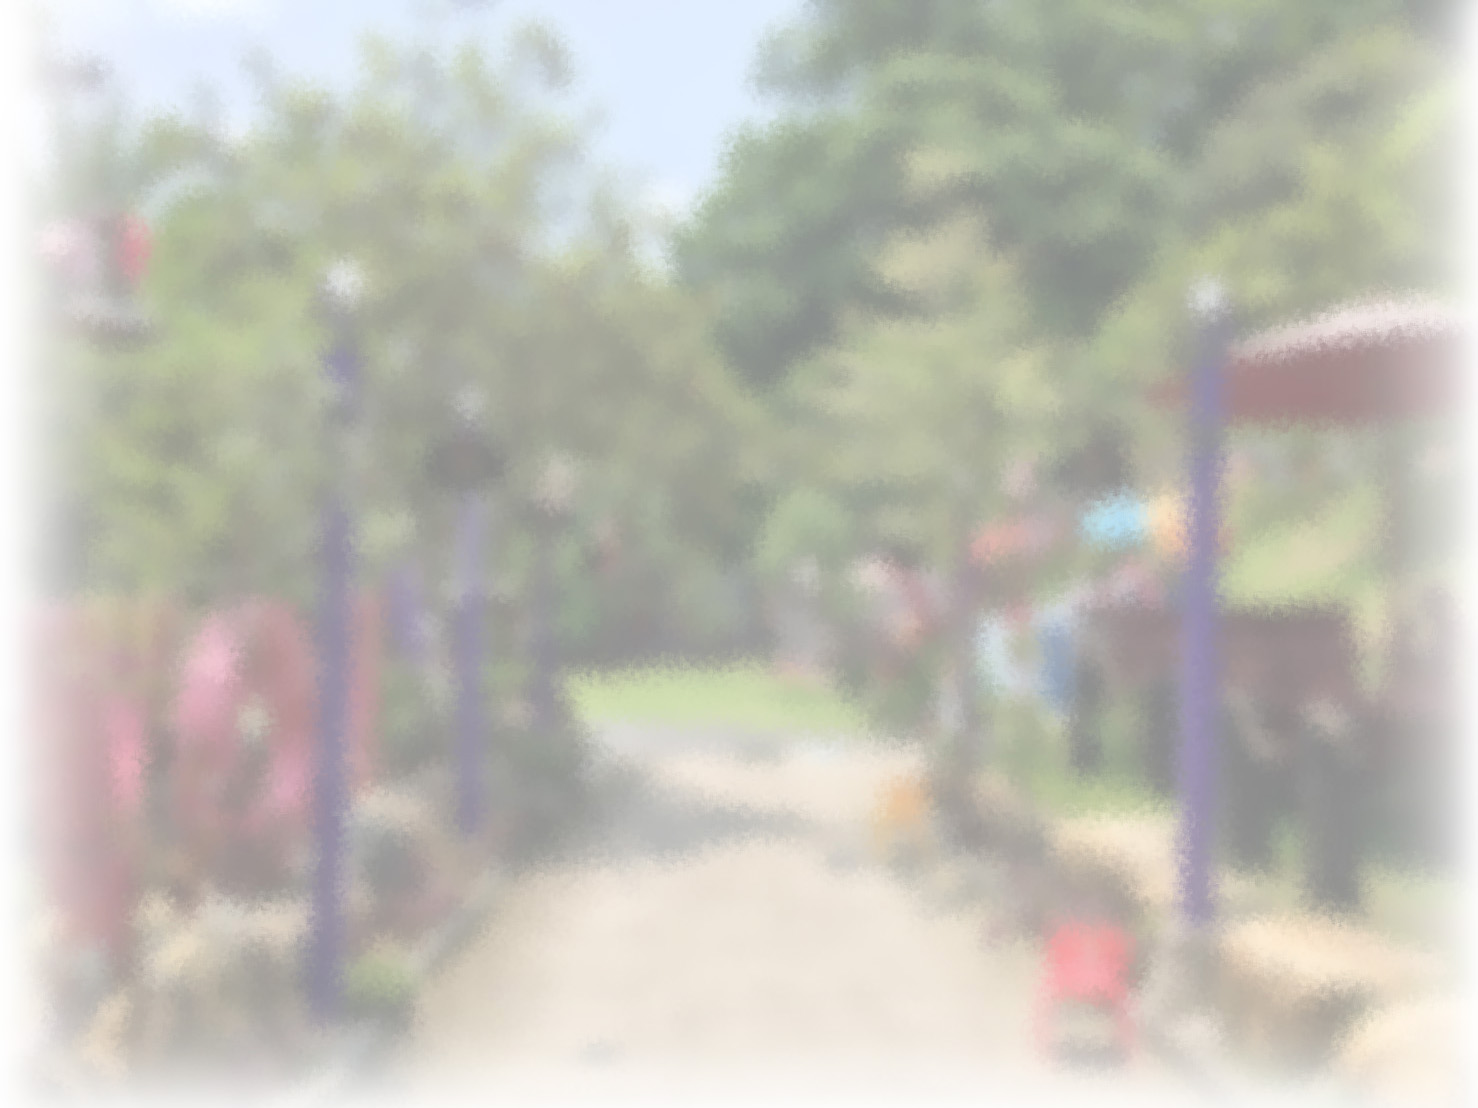
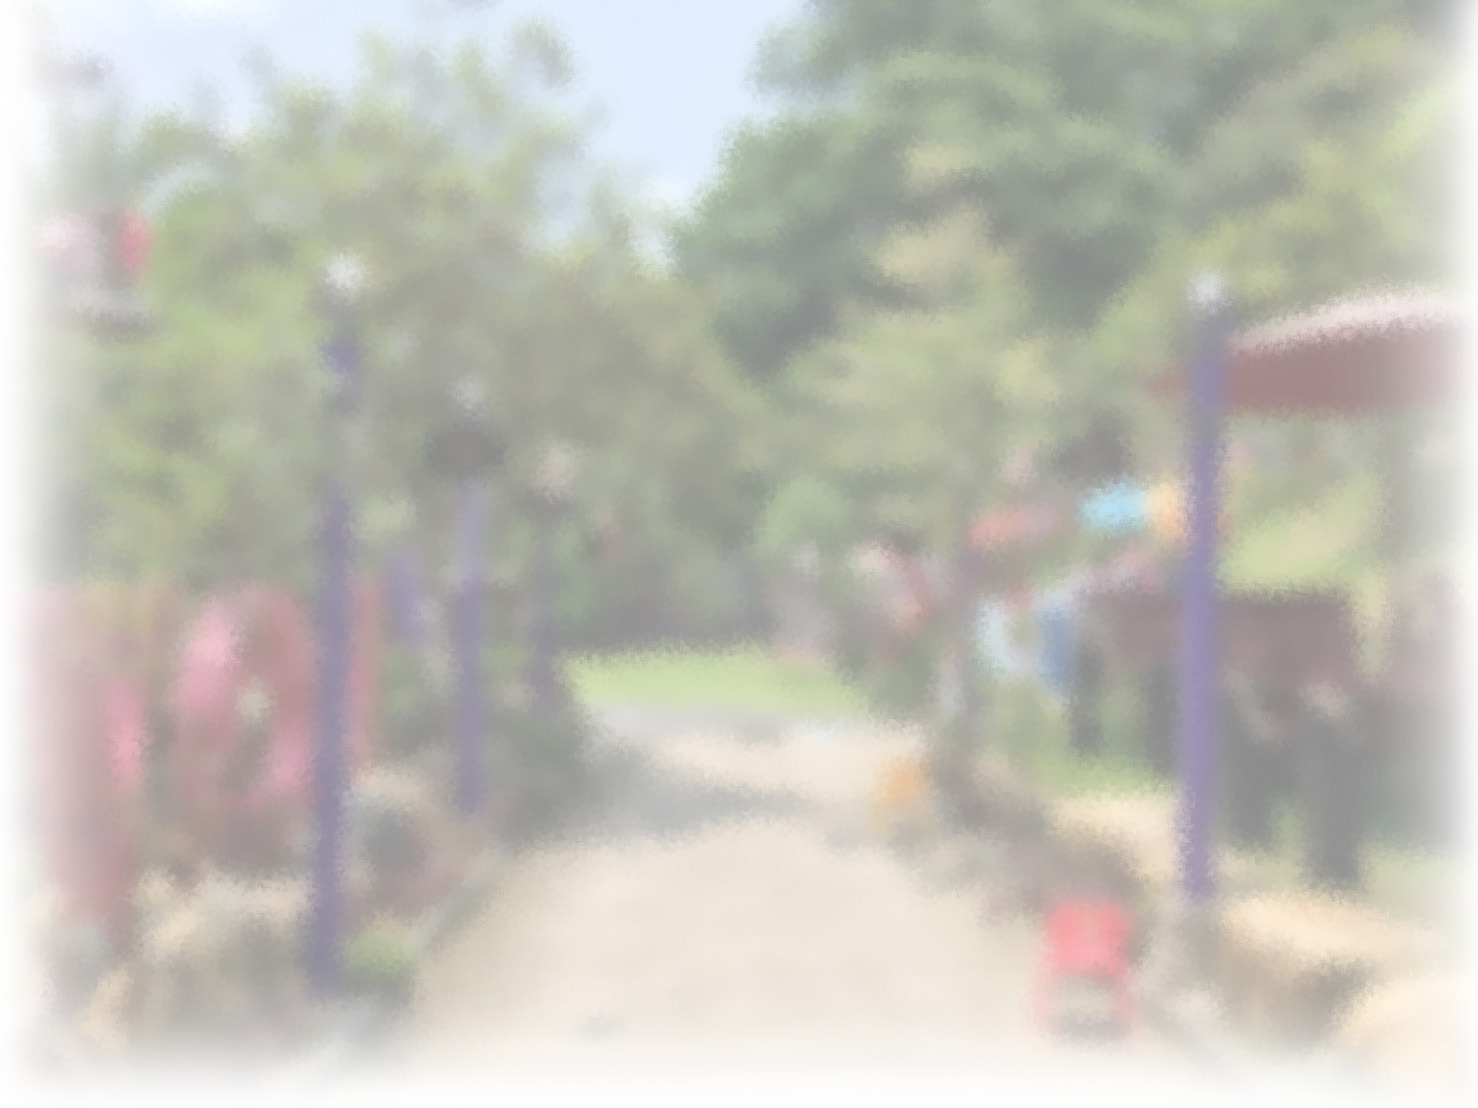
ddd

diff --git a/index_title.html b/index_title.html
@@ -61,7 +61,8 @@
             padding: 25px;
             background-image: url('Img/index/11.jpg');
             background-repeat: no-repeat;
-            background-size: contain;
+            background-size: cover;
+            background-position: bottom;
         }
 
         .head01-cover {
